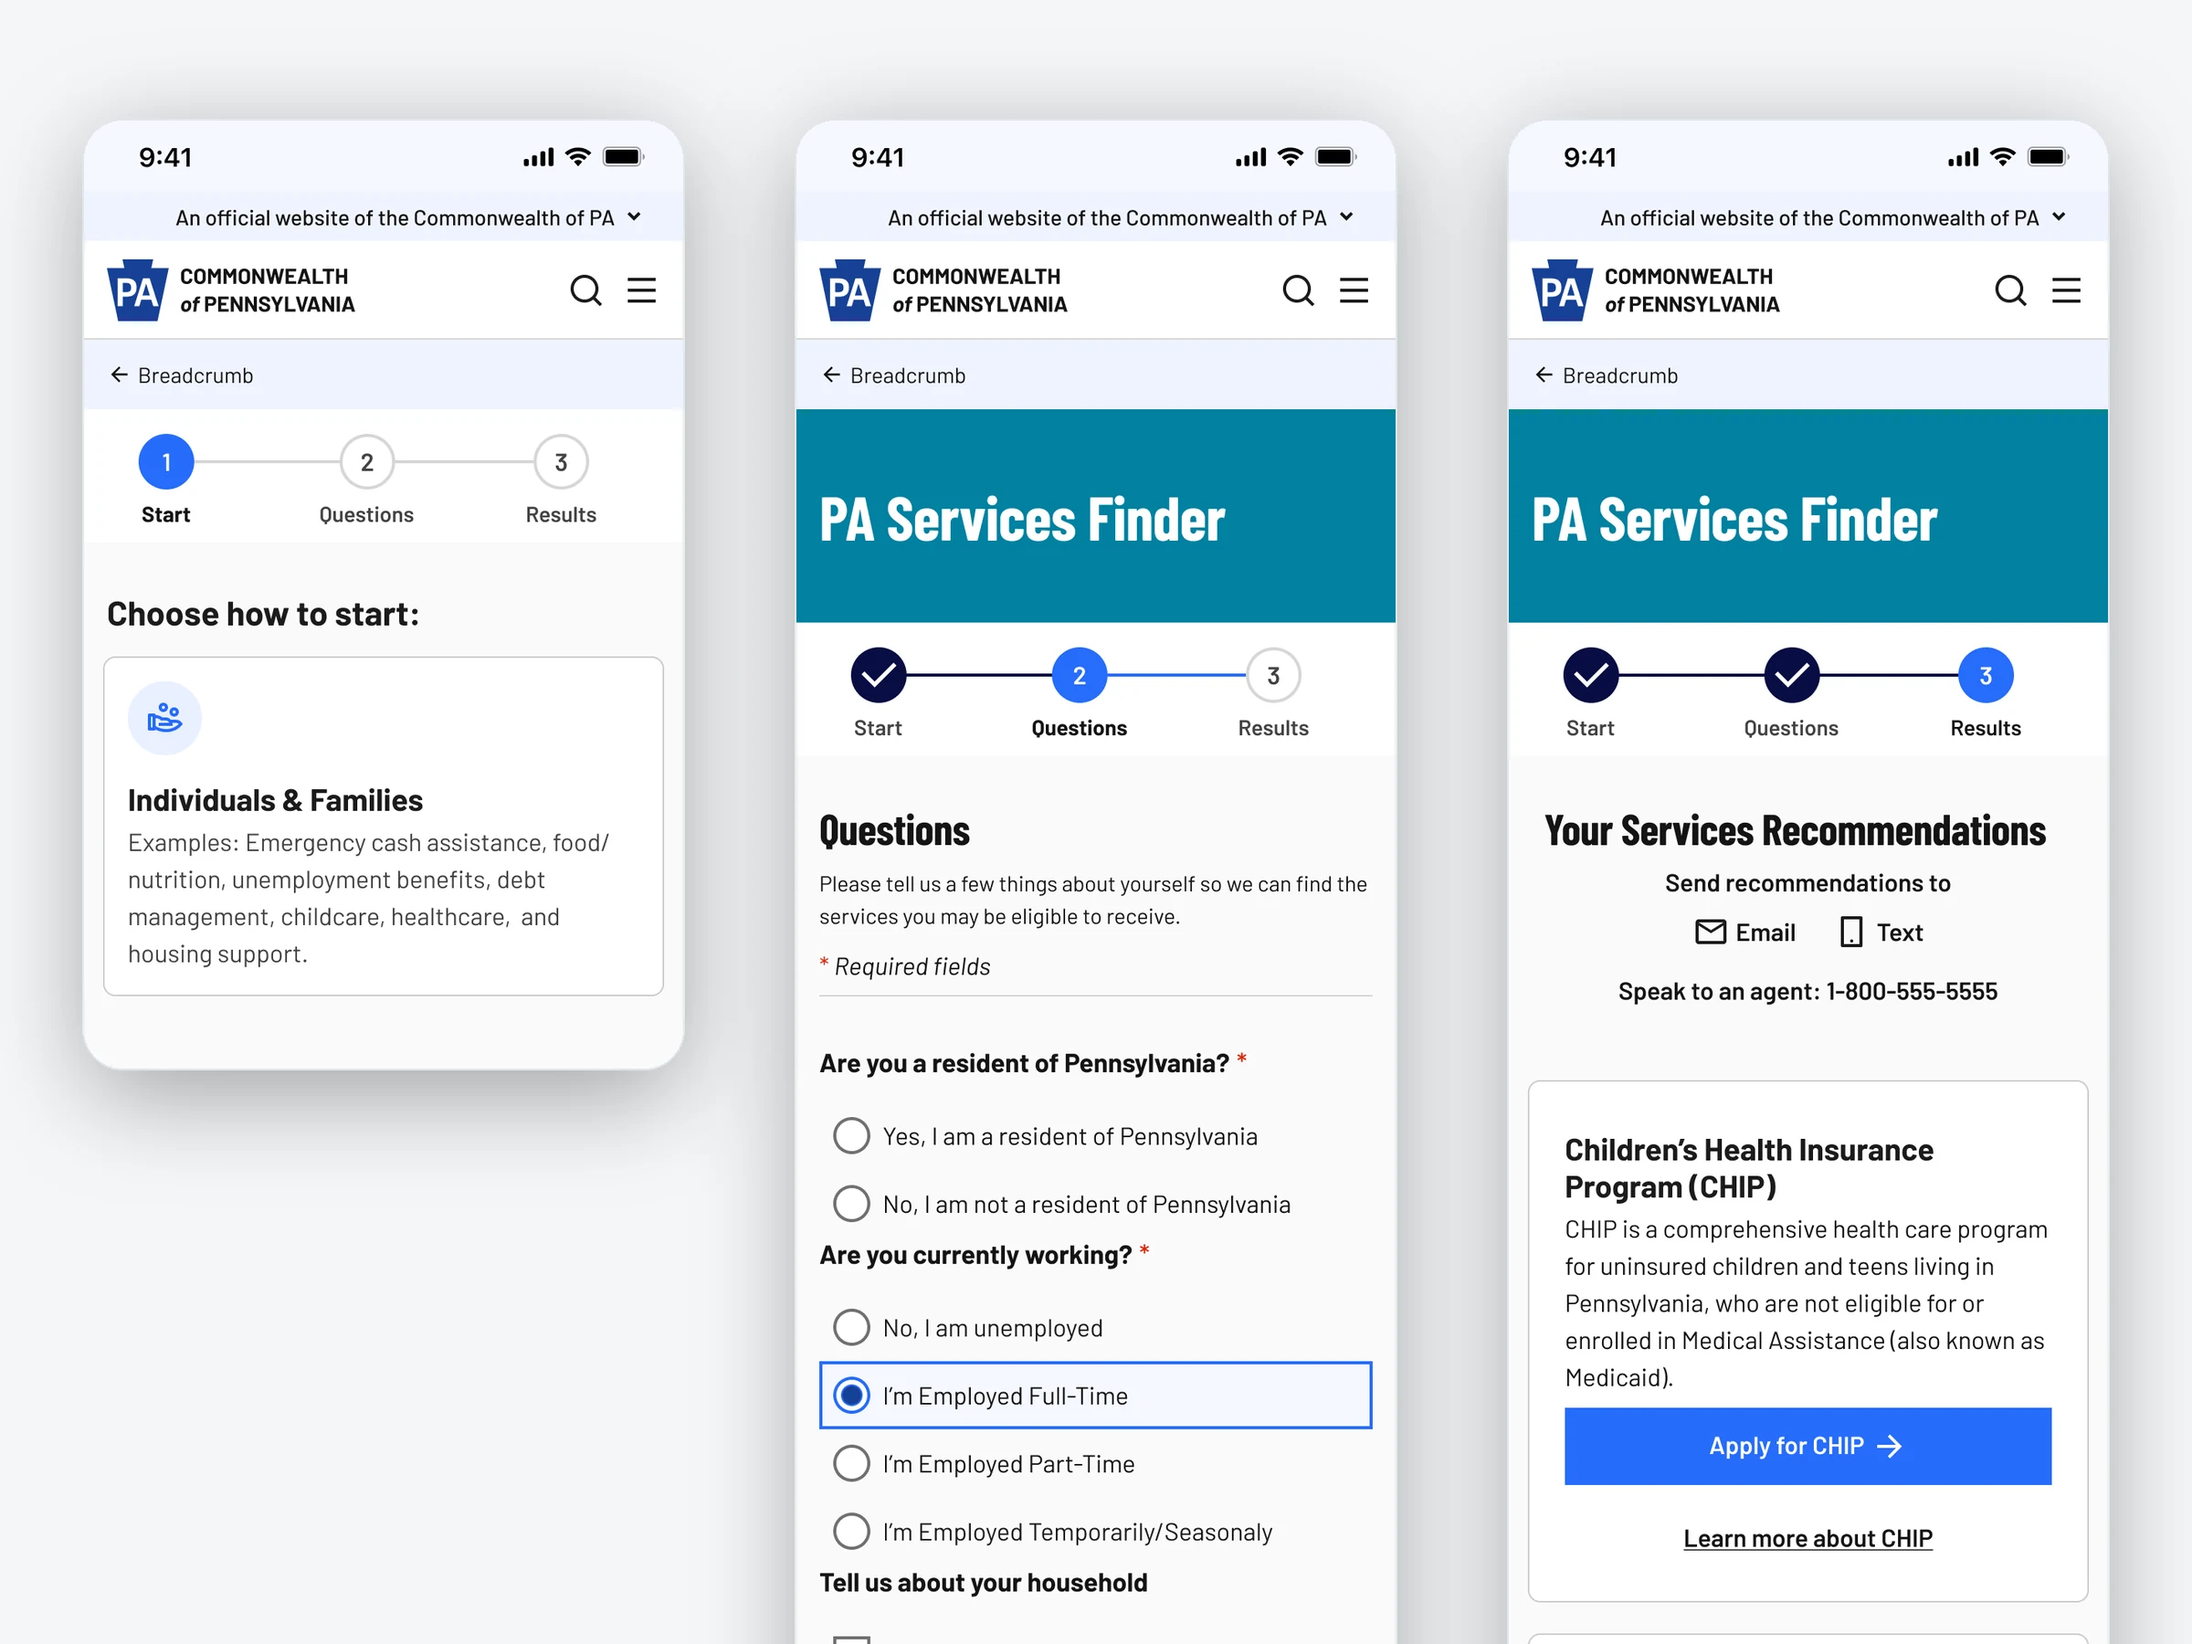
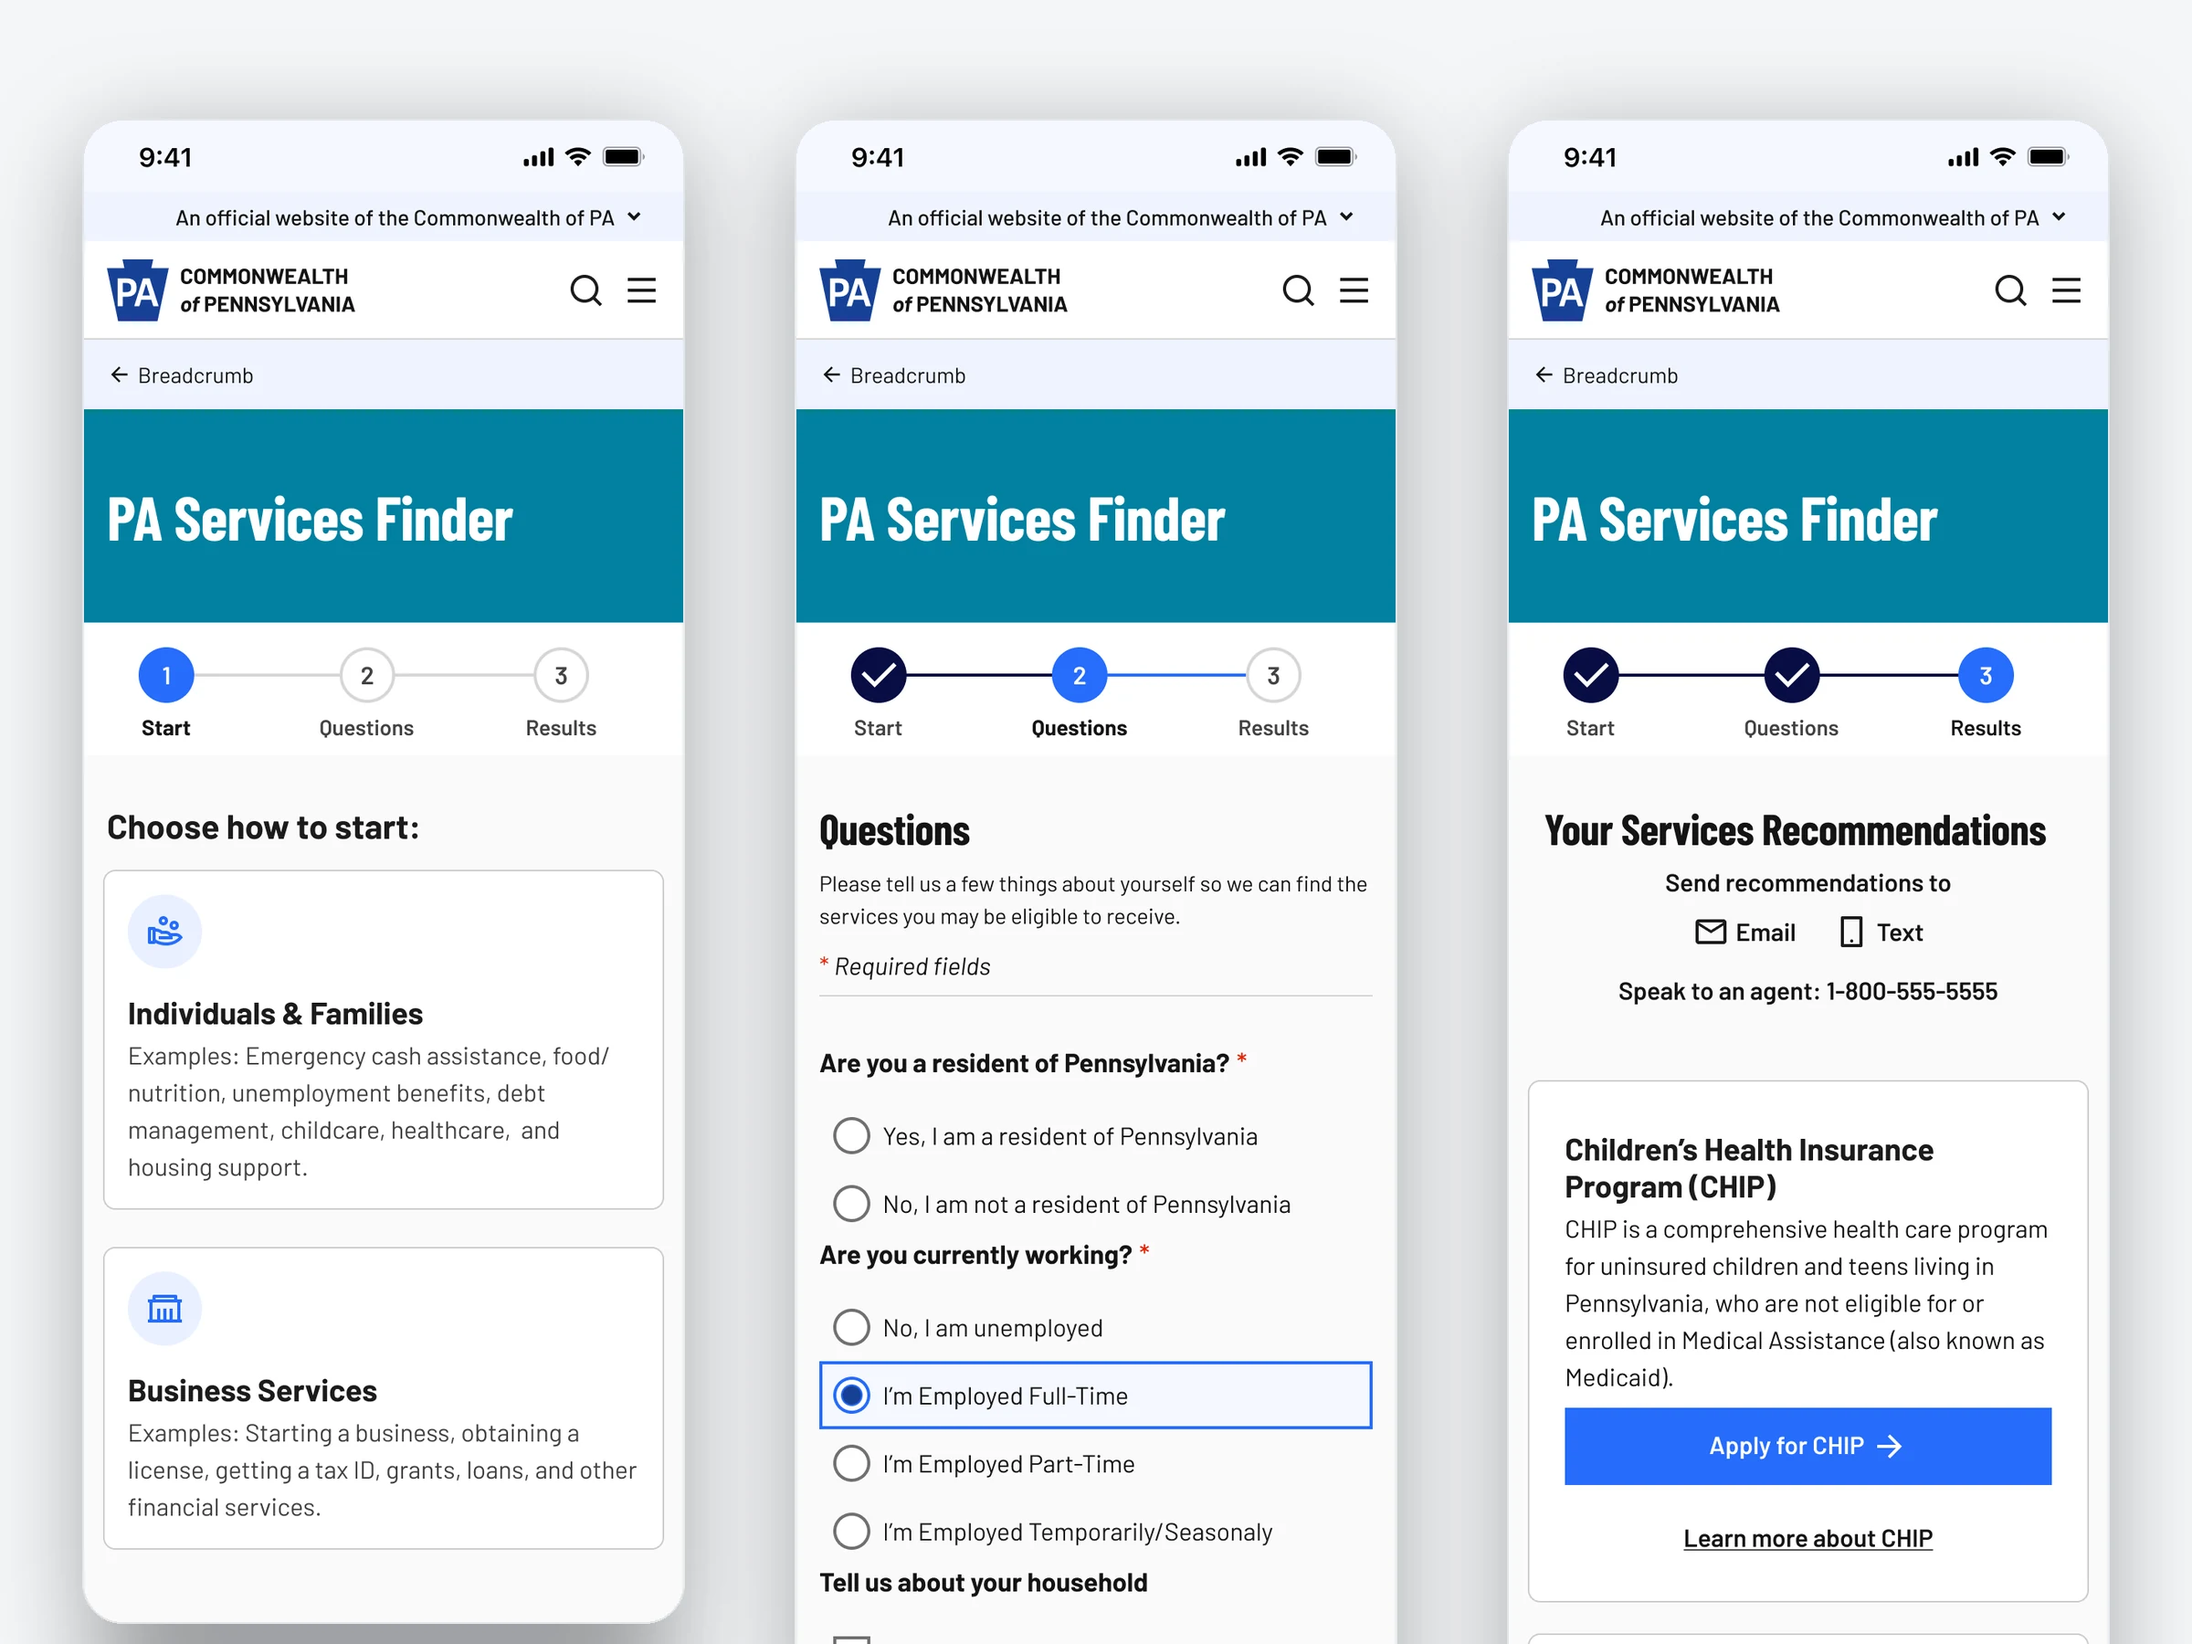
PA.gov wizard: use Tucker's updated Step 1 screen
Claude-Session: https://claude.ai/code/session_01P9QZ9uGo36HRrMpsRwfrb2

Changed region(s): [[0.0, 0.2489, 0.3438, 1.0], [0.25, 0.4356, 0.2812, 0.4667]]

diff --git a/work/pa-gov/index.html b/work/pa-gov/index.html
@@ -141,7 +141,7 @@ if(localStorage.getItem(k)){window.goatcounter={no_onload:true};var s=document.c
             <figcaption><span class="node">06</span><div><h3>Clear ways to act</h3><p>The options to apply sit side by side: online, by phone, or by videophone for people who use sign language.</p></div></figcaption>
           </figure>
           <figure class="cs-shot">
-            <div class="cs-shot-img"><picture><source media="(max-width:640px)" srcset="/assets/img/pa-5-wizard-m.webp?v=1"><img src="/assets/img/pa-5-wizard.webp?v=1" width="2400" height="1800" alt="Three phone screens of the life-event wizard prototype: choose how to start, answer a few questions about yourself, then a list of recommended services such as CHIP." loading="lazy" decoding="async"></picture></div>
+            <div class="cs-shot-img"><picture><source media="(max-width:640px)" srcset="/assets/img/pa-5-wizard-m.webp?v=2"><img src="/assets/img/pa-5-wizard.webp?v=2" width="2400" height="1800" alt="Three phone screens of the life-event wizard prototype: choose how to start, answer a few questions about yourself, then a list of recommended services such as CHIP." loading="lazy" decoding="async"></picture></div>
             <figcaption><span class="node">07</span><div><h3>A guided search, pitched and tested</h3><p>I pitched a life-event wizard: a few simple questions that lead residents to the services they may be eligible for. It tested well, but it wasn&#x27;t in scope, and it wasn&#x27;t built.</p></div></figcaption>
           </figure>
         </section>

diff --git a/tools/pa-wizard/build.py b/tools/pa-wizard/build.py
@@ -7,12 +7,7 @@ HERE = os.path.dirname(os.path.abspath(__file__)); OUT = os.path.join(HERE, '..'
 BG, LINE, SHADOW = (245, 246, 248), (226, 229, 234), (17, 20, 24)
 src = lambda n: Image.open(os.path.join(HERE, 'src', n + '.png')).convert('RGB')
 
-# Step 1: skip the placeholder hero (lorem ipsum) and go straight from the header to the stepper and start cards.
-s1 = src('step1'); top = s1.crop((0, 0, 780, 376)); rest = s1.crop((0, 1024, 780, s1.height))
-# The second start card (Business Services) is still placeholder copy, so the screen ends after the first card.
-rest = rest.crop((0, 0, 780, 1184 - top.height))  # ends in the gap below the first card
-step1 = Image.new('RGB', (780, top.height + rest.height + 48), (250, 250, 250)); step1.paste(top, (0, 0)); step1.paste(rest, (0, top.height))
-screens = [step1, src('step2'), src('step3')]
+screens = [src('step1'), src('step2'), src('step3')]
 
 def phone(base, img, x, y, w, radius):
     """Paste a screen as a rounded card with a soft shadow; anything past the canvas bleeds off the bottom edge."""
